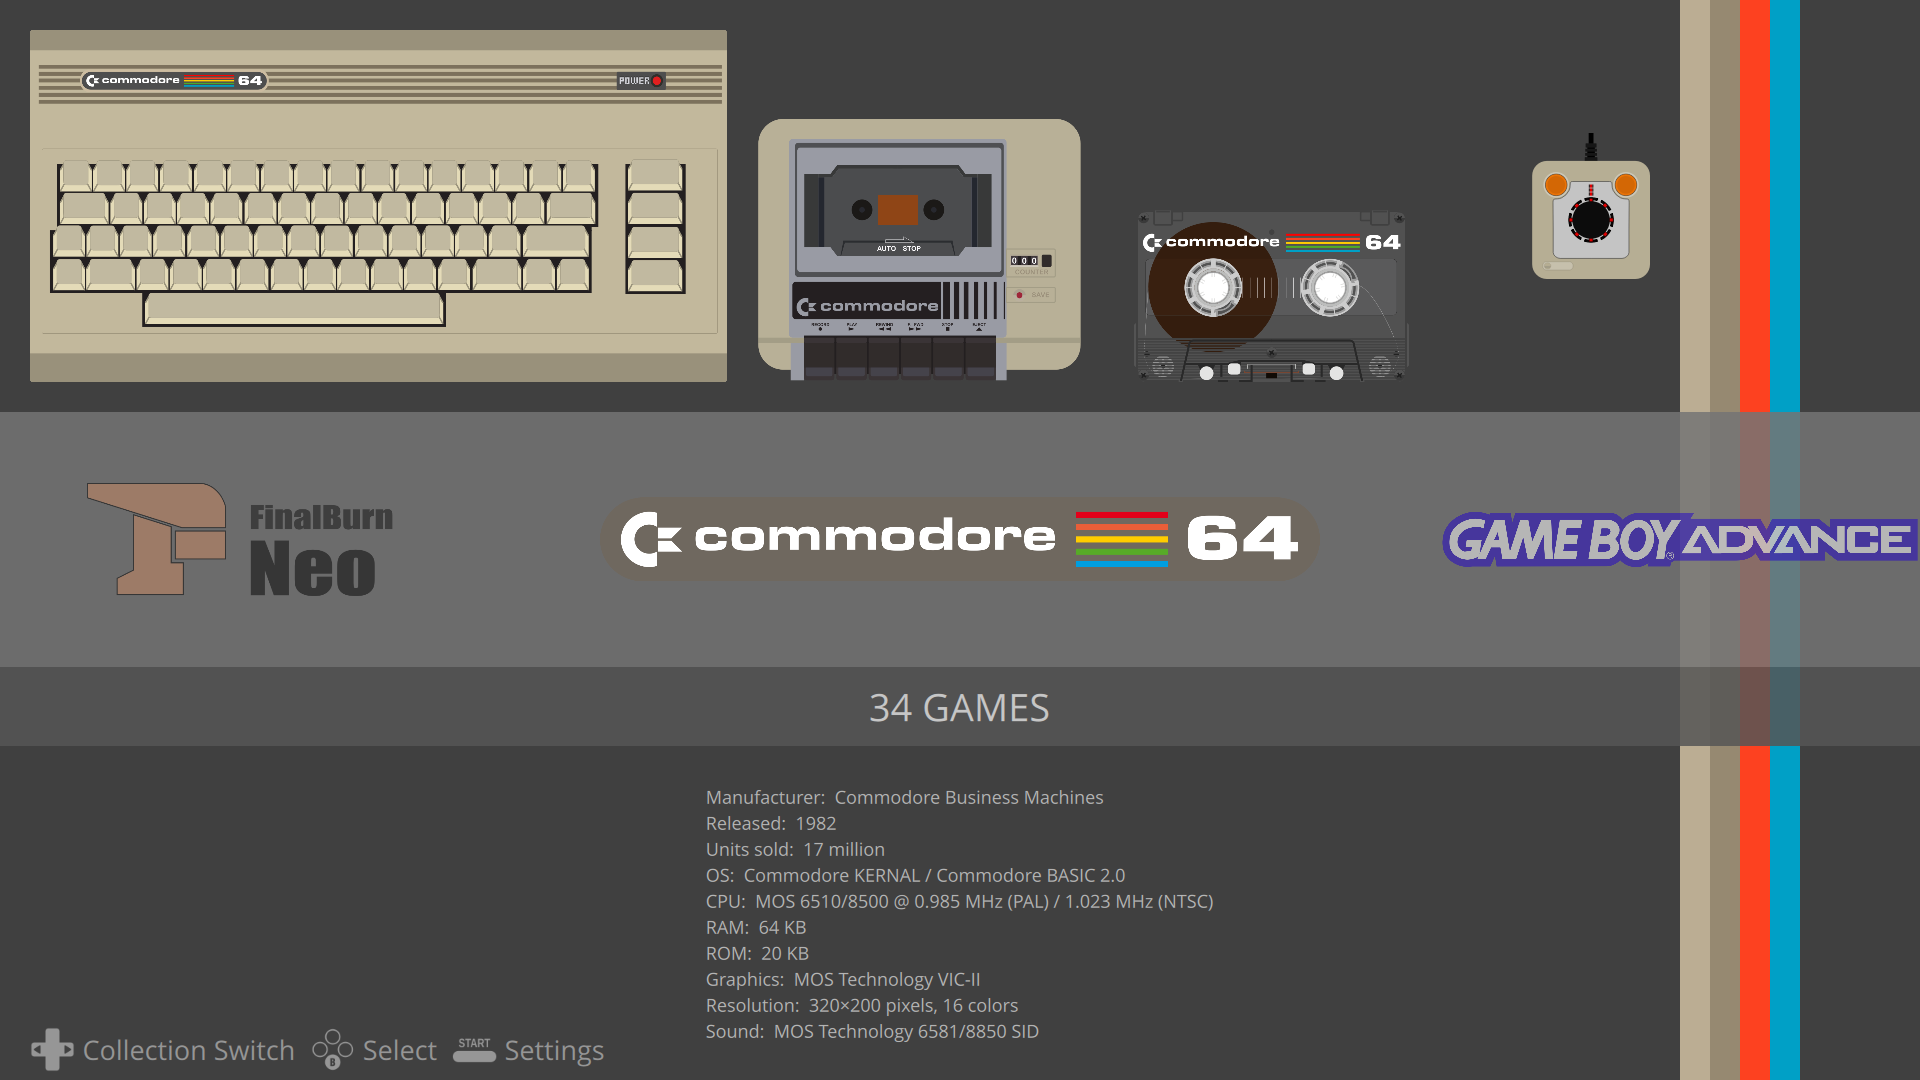
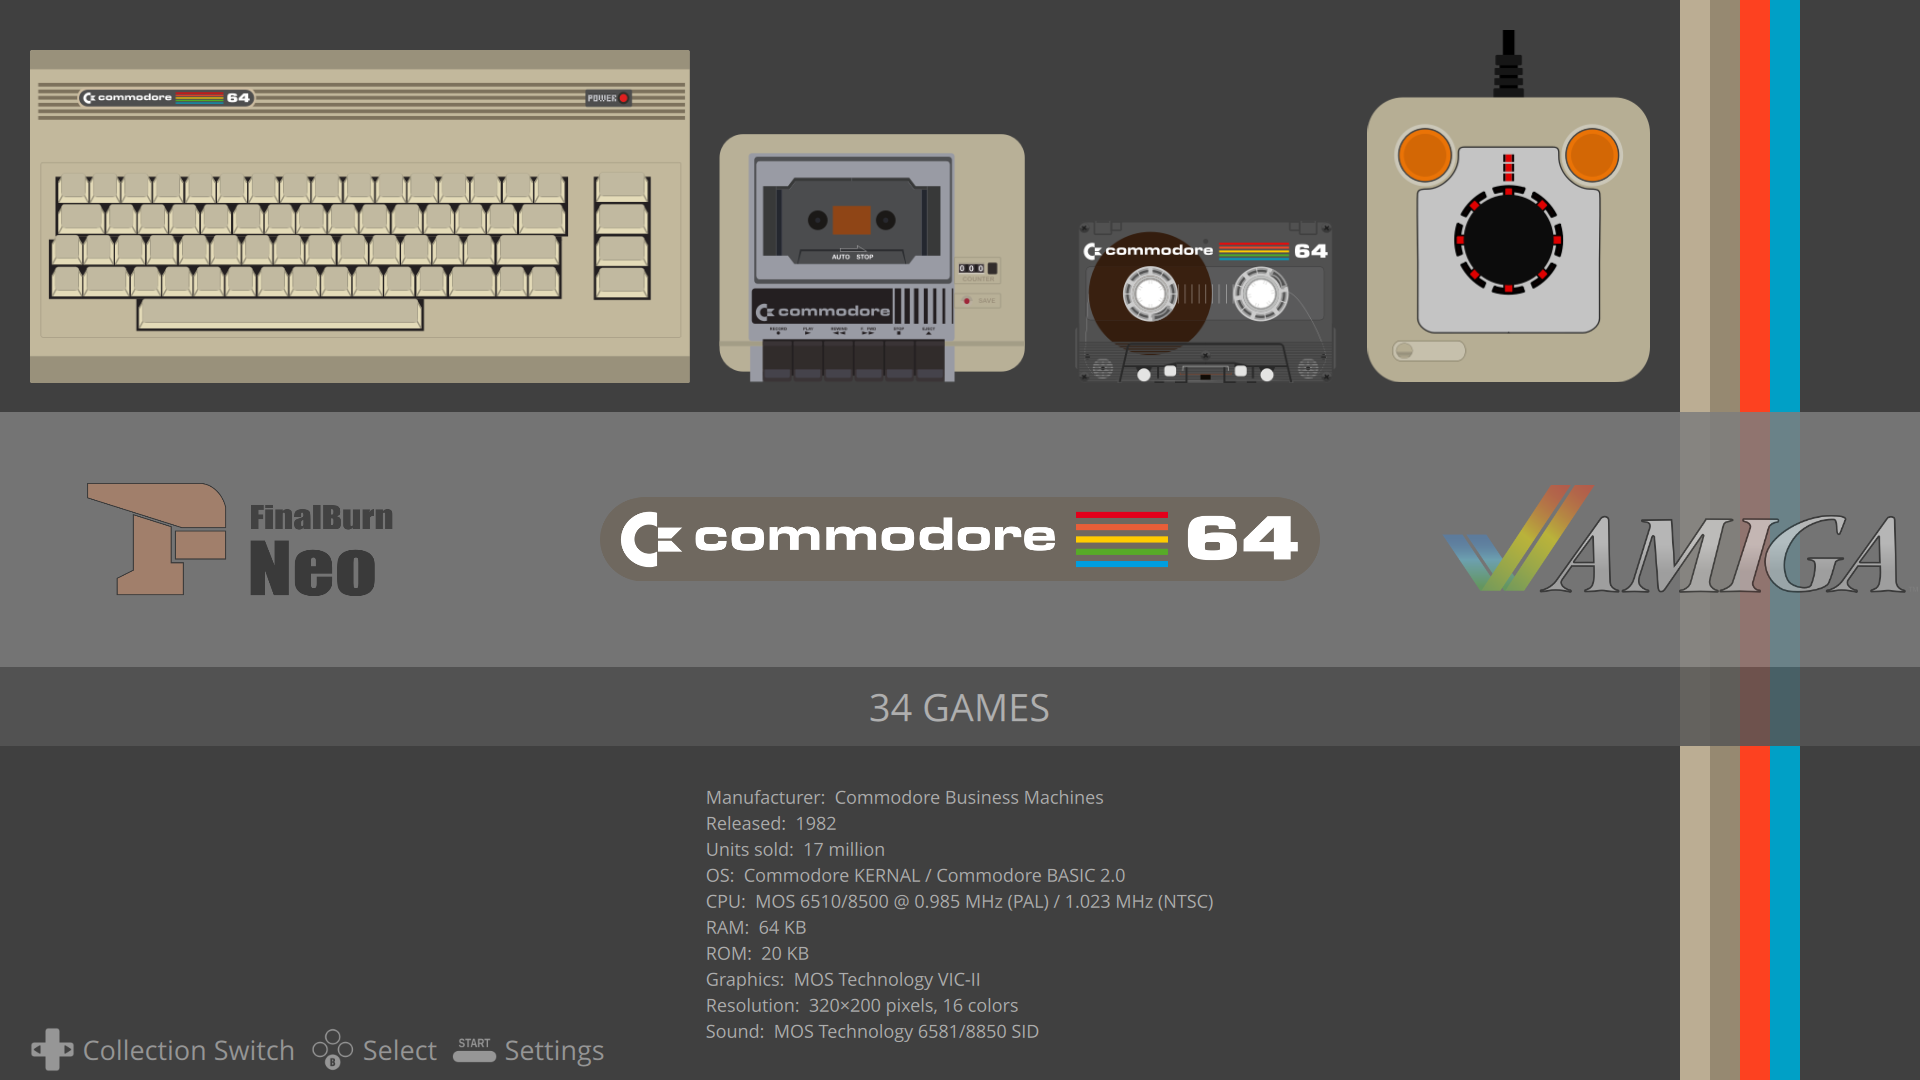
fix width binding loop, update screenshots

Changed region(s): [[0.0, 0.0306, 0.875, 0.3667], [0.75, 0.4278, 1.0, 0.55]]

diff --git a/DetailsView.qml b/DetailsView.qml
@@ -336,8 +336,8 @@ FocusScope {
                         currentGame.assets.boxFront ||
                         currentGame.assets.logo ||
                         currentGame.assets.marquee
-                sourceSize.width: parent.width
-                sourceSize.height: parent.height 
+                sourceSize.width: vpx(384)
+                sourceSize.height: vpx(288)
             }
         }
 
